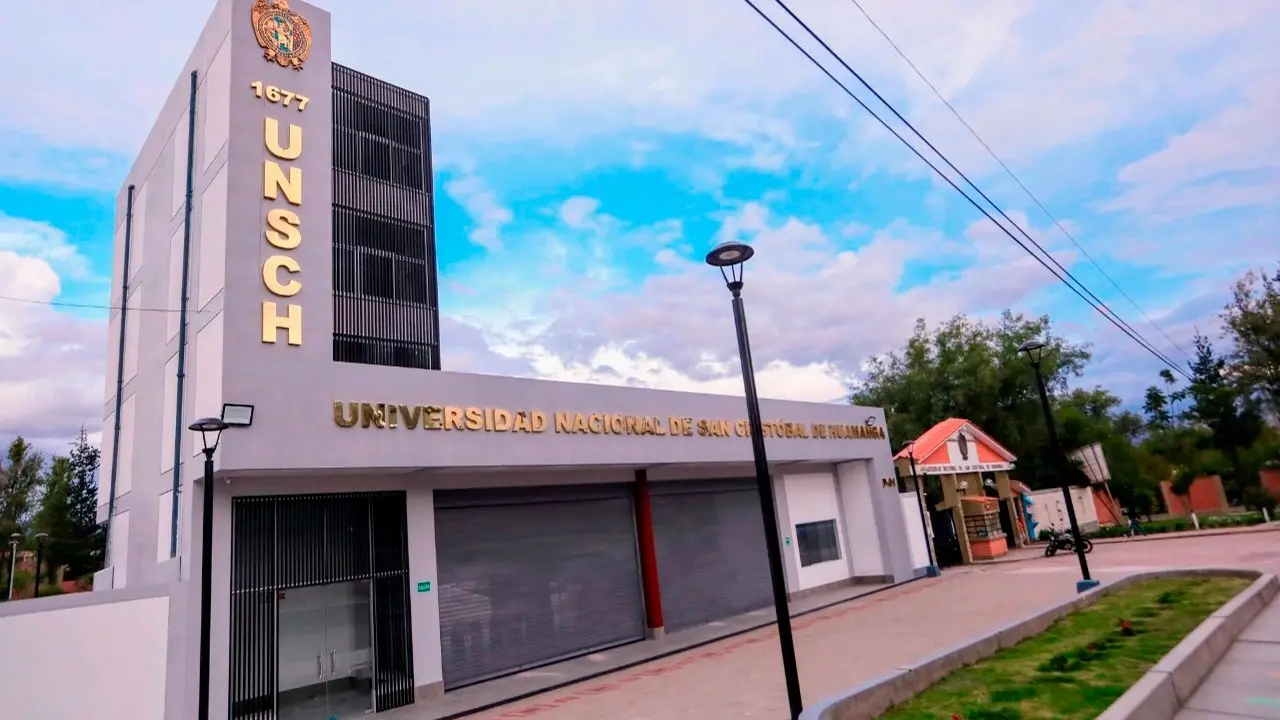
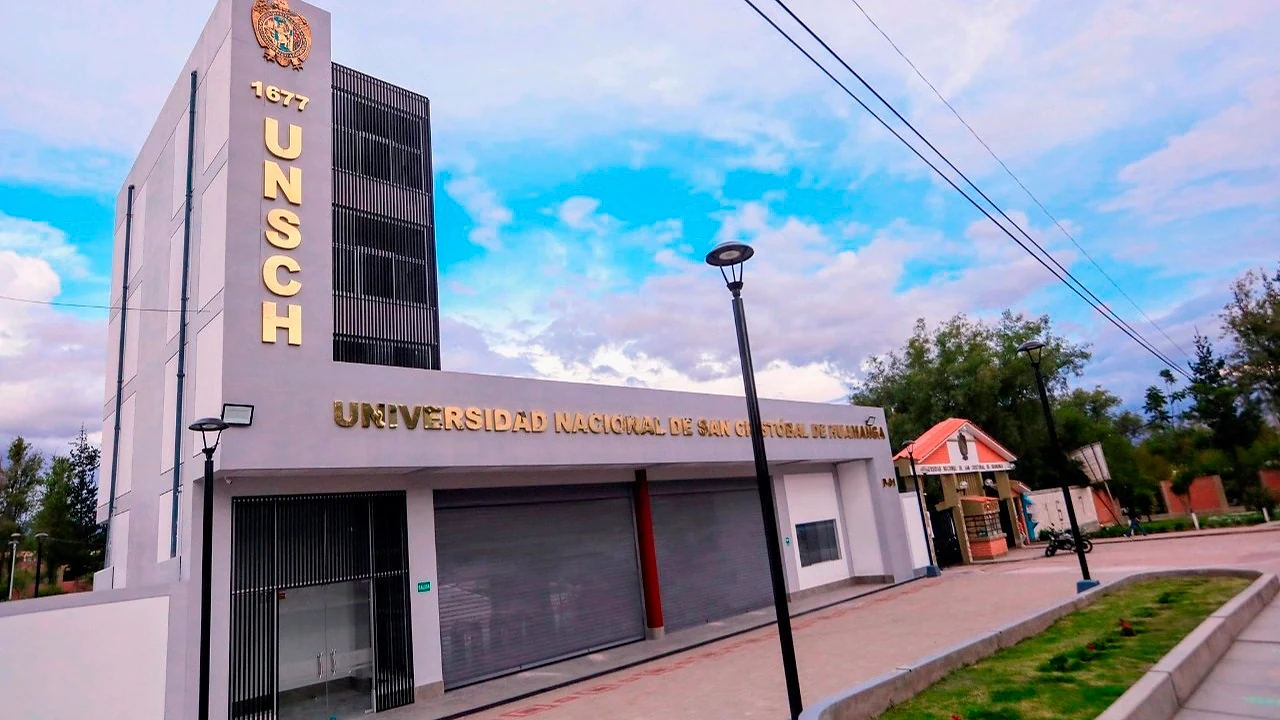
Portada: foto de la fachada más nítida
La foto se mostraba estirada: el original mide 1280 × 720 y la portada
la recorta en un recuadro alto, así que el navegador la ampliaba entre
1,2 y 1,5 veces, con una versión web muy comprimida. Ahora hay versiones
de 640, 1280, 1920 y 2560 px, ampliadas con Lanczos, con un enfoque
suave y menos compresión, y el atributo sizes pide la que corresponde
al ancho real del recuadro. El acercamiento inicial baja de 8 % a 3 %.

diff --git a/apps/frontend/src/app/features/public/home/home.html b/apps/frontend/src/app/features/public/home/home.html
@@ -20,7 +20,7 @@
     </div>
   </div>
   <figure class="hero__media">
-    <img [src]="img.src('portada.fachada', 'img/campus-fachada-1280.webp')" [attr.srcset]="img.srcset('portada.fachada', 'img/campus-fachada-640.webp 640w, img/campus-fachada-1280.webp 1280w')" sizes="(max-width: 900px) 100vw, 50vw" [alt]="img.alt('portada.fachada', 'Fachada del edificio de la UNSCH con el escudo y el año 1677')" width="1280" height="720" fetchpriority="high">
+    <img [src]="img.src('portada.fachada', 'img/campus-fachada-1280.webp')" [attr.srcset]="img.srcset('portada.fachada', 'img/campus-fachada-640.webp 640w, img/campus-fachada-1280.webp 1280w, img/campus-fachada-1920.webp 1920w, img/campus-fachada-2560.webp 2560w')" sizes="(max-width: 900px) 100vw, min(157vh, 1530px)" [alt]="img.alt('portada.fachada', 'Fachada del edificio de la UNSCH con el escudo y el año 1677')" width="1280" height="720" fetchpriority="high">
   </figure>
 </section>
 

diff --git a/apps/frontend/src/app/features/public/home/home.scss b/apps/frontend/src/app/features/public/home/home.scss
@@ -15,7 +15,7 @@
 /* Degradado fijo: funde la foto con el campo guinda y le da profundidad, sin animación. */
 .hero__media::after { content: ''; position: absolute; inset: 0; pointer-events: none; background: linear-gradient(90deg, rgb(122 28 34 / 0.75), rgb(122 28 34 / 0) 34%), linear-gradient(0deg, rgb(29 20 21 / 0.22), rgb(29 20 21 / 0) 30%); }
 .hero__media img { width: 100%; height: 100%; object-fit: cover; object-position: 30% center; animation: drift 24s var(--ease) both; }
-@keyframes drift { from { transform: scale(1.08); } to { transform: scale(1); } }
+@keyframes drift { from { transform: scale(1.03); } to { transform: scale(1); } }
 
 /* Ahora en curso */
 .now { padding-block: clamp(2rem, 4vw, 3rem); }
